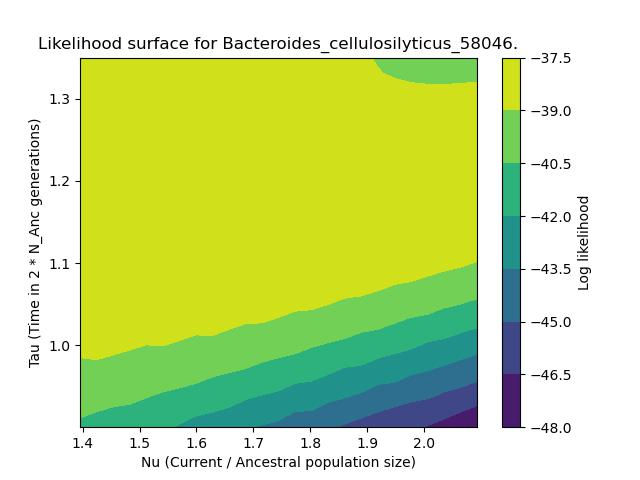
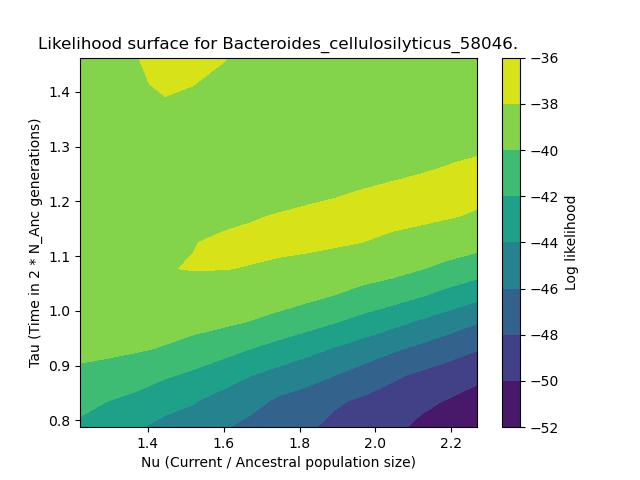
B. cell

diff --git a/Scripts/plot_likelihood.py b/Scripts/plot_likelihood.py
@@ -464,11 +464,11 @@ class PlotLikelihood():
                 x = input_nu  # Initial x value
                 y = input_tau  # Initial y value
 
-                npts = 25
+                npts = 15
 
-                x_range = numpy.linspace(x * 0.8, x * 1.2, npts)
+                x_range = numpy.linspace(x * 0.7, x * 1.3, npts)
                 # x_range = numpy.linspace(1.6, 2.4, npts)
-                y_range = numpy.linspace(y * 0.8, y * 1.2, npts)
+                y_range = numpy.linspace(y * 0.7, y * 1.3, npts)
                 # y_range = numpy.linspace(0.98, 1.04, npts)
 
                 X, Y = numpy.meshgrid(x_range, y_range)
